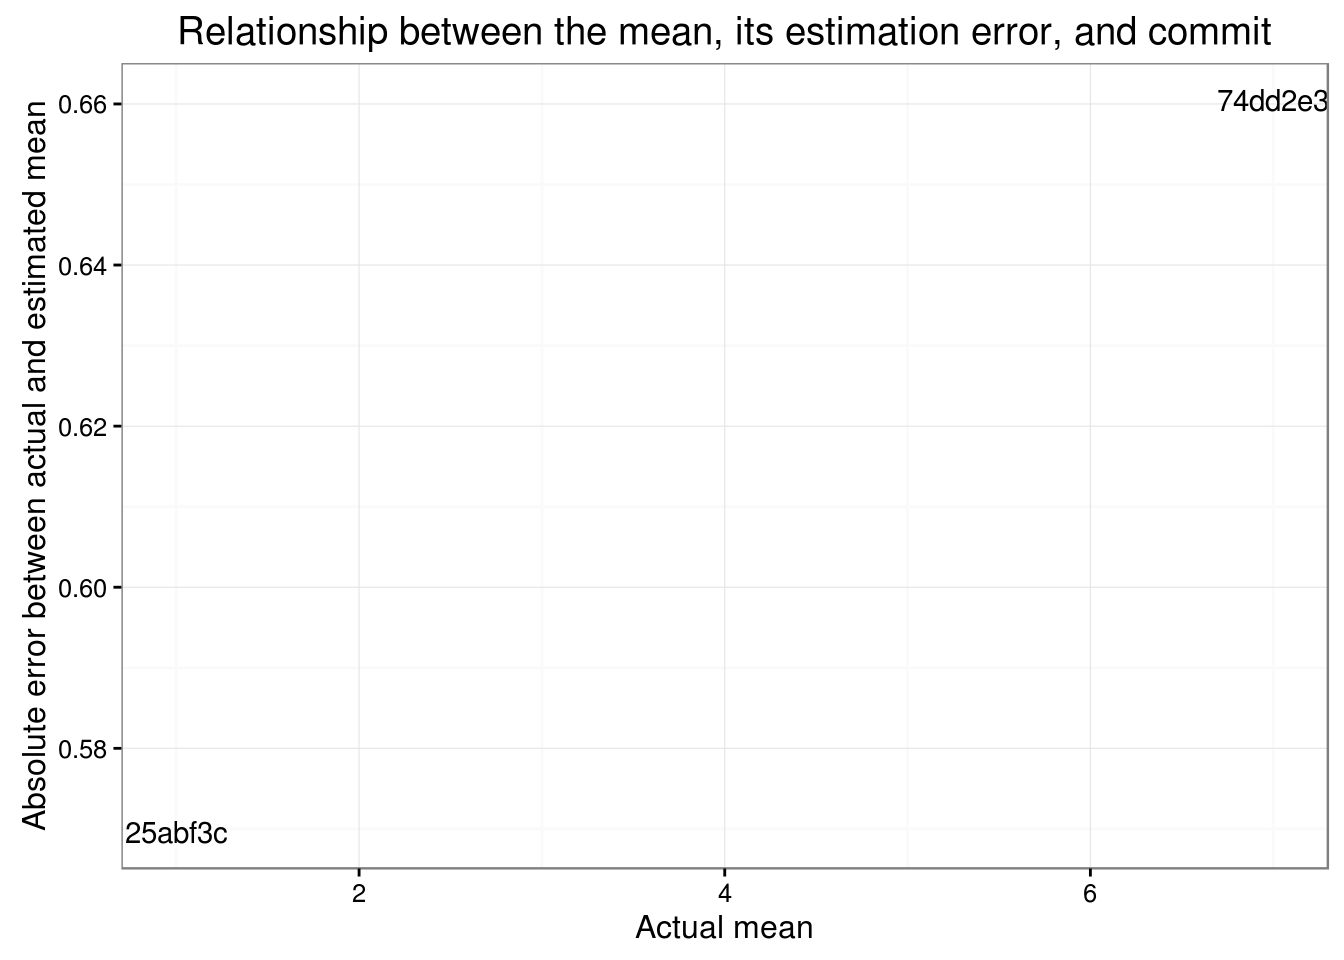
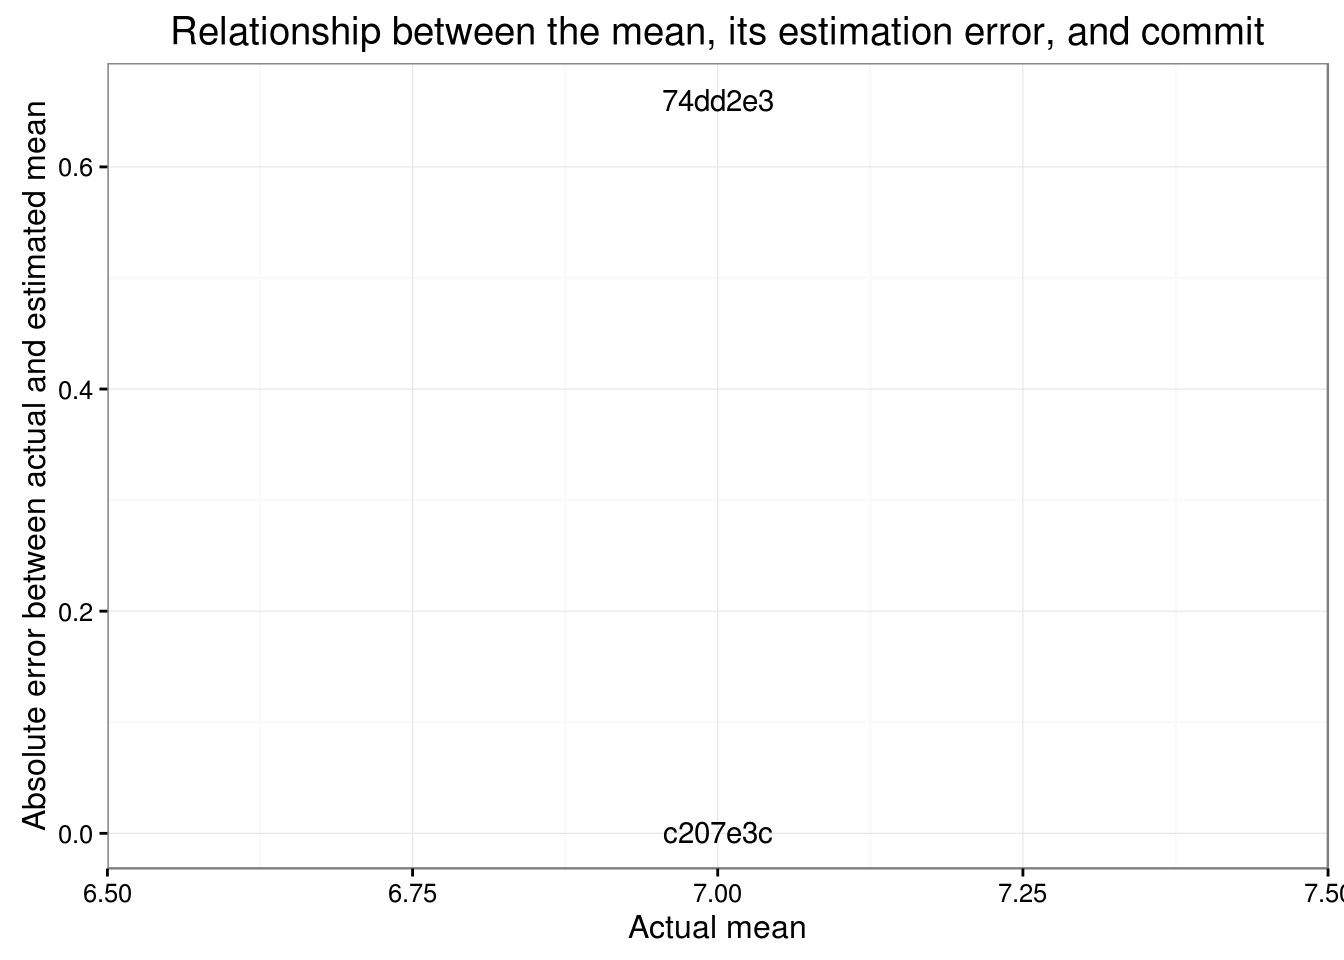
Build site.

diff --git a/docs/archive.html b/docs/archive.html
@@ -9,8 +9,9 @@
 <meta name="generator" content="pandoc" />
 
 
-<meta name="author" content="First Last" />
+<meta name="author" content="John Blischak" />
 
+<meta name="date" content="2017-02-06" />
 
 <title>Test wflow_archive and wflow_restore</title>
 
@@ -302,14 +303,14 @@ div.tocify {
 
 
 <h1 class="title toc-ignore">Test wflow_archive and wflow_restore</h1>
-<h4 class="author"><em>First Last</em></h4>
-<h4 class="date"><em>YYYY-MM-DD</em></h4>
+<h4 class="author"><em>John Blischak</em></h4>
+<h4 class="date"><em>2017-02-06</em></h4>
 
 </div>
 
 
 <p><strong>Last updated:</strong> 2017-02-06</p>
-<p><strong>Code version:</strong> 74dd2e3</p>
+<p><strong>Code version:</strong> c207e3c</p>
 <pre class="r"><code>library(&quot;workflowr&quot;)
 library(&quot;ggplot2&quot;)
 theme_set(theme_bw())</code></pre>
@@ -325,11 +326,11 @@ normal_dist &lt;- rnorm(5, mean = mean_value)</code></pre>
 <pre class="r"><code>str(restored)</code></pre>
 <pre><code>List of 2
  $ mean_value :List of 2
-  ..$ 25abf3c: int 1
   ..$ 74dd2e3: int 7
+  ..$ c207e3c: int 7
  $ normal_dist:List of 2
-  ..$ 25abf3c: num [1:5] 1.058 2.174 0.709 2.602 1.304
-  ..$ 74dd2e3: num [1:5] 7.47 7.15 8.54 8.34 6.81</code></pre>
+  ..$ 74dd2e3: num [1:5] 7.47 7.15 8.54 8.34 6.81
+  ..$ c207e3c: num [1:5] 7.84 5.63 7.69 7.01 6.84</code></pre>
 <p>Analyze them.</p>
 <pre class="r"><code>mean_set &lt;- sapply(restored$mean_value, function(x) x)
 mean_estimate &lt;- sapply(restored$normal_dist, function(x) mean(x))
